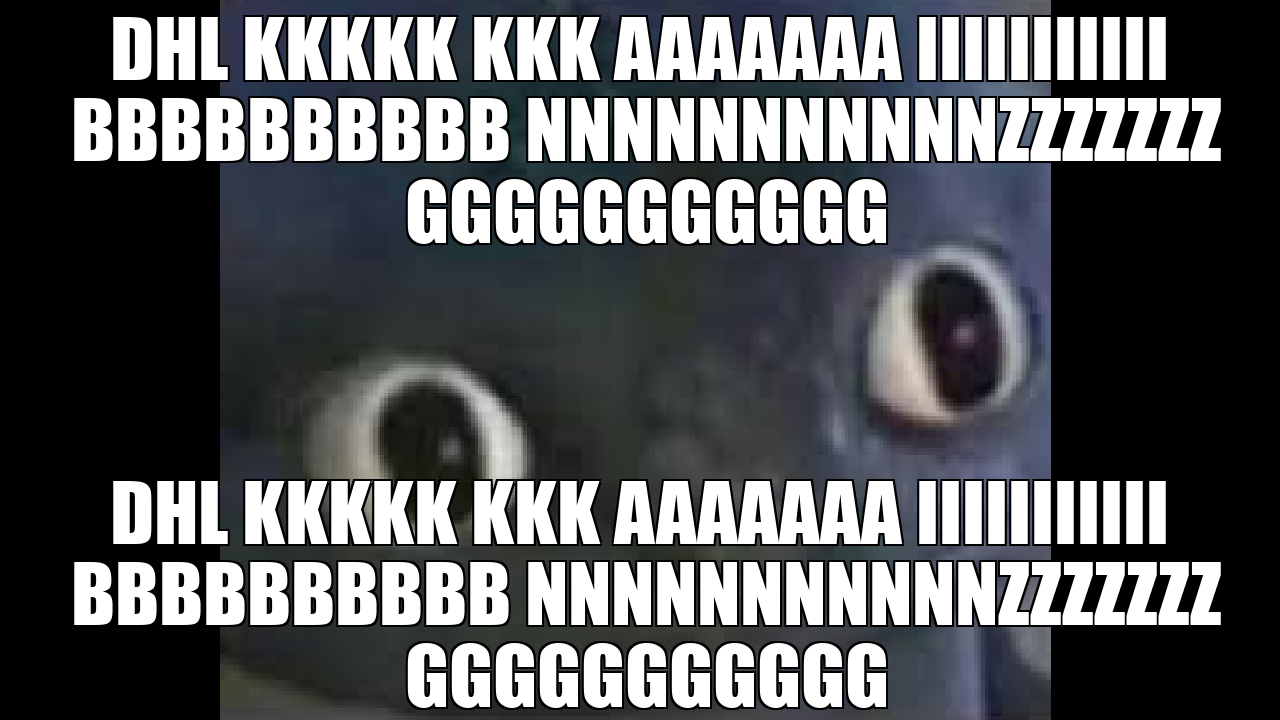
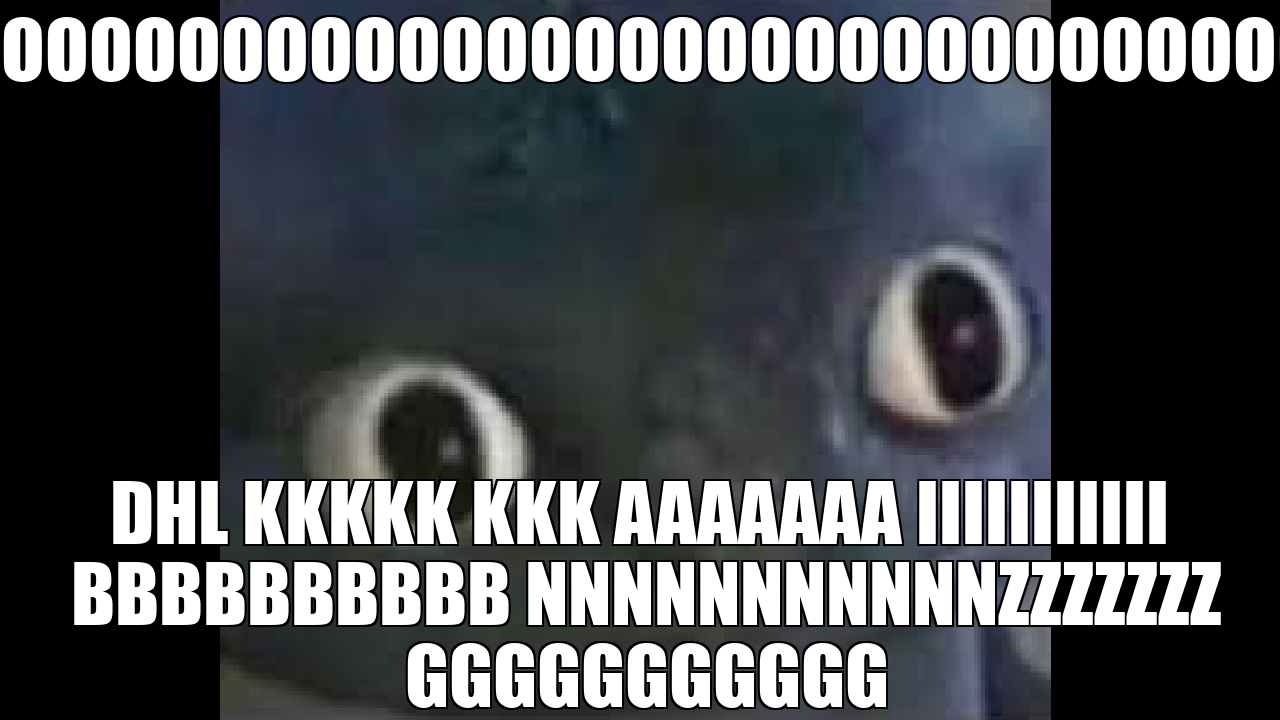
made meme_caption more error tolerant

Changed region(s): [[0.0, 0.0, 1.0, 0.3667]]

diff --git a/meme_caption.py b/meme_caption.py
@@ -19,7 +19,7 @@ def drawTextWithOutline(text, x, y, font, draw):
 
 def make_lines(text, font, img_w, draw):
     def _cut_last_word(line):
-        print('in _cut_last_word, about to cut line: ', line)#````````````````````````````````````````````````````````````
+#         print('in _cut_last_word, about to cut line: ', line)#````````````````````````````````````````````````````````````
         split_line_str_l = line.split(' ')
         
         if len(split_line_str_l) == 1:
@@ -35,22 +35,23 @@ def make_lines(text, font, img_w, draw):
     
     while(len(text) > 0):
         test_line = text
-        print('above while')#````````````````````````````````````````````````````````````````````````````````````````````
+#         print('above while')#````````````````````````````````````````````````````````````````````````````````````````````
         
         # while the length of the line is wider than the image
         while(draw.textsize(test_line, font)[0] > img_w):
-            print('test_line: ', test_line)#````````````````````````````````````````````````````
-            print('  draw.textsize(test_line, font)[0]: ', draw.textsize(test_line, font)[0])#`````````````````````````
+#             print('test_line: ', test_line)#````````````````````````````````````````````````````
+#             print('  draw.textsize(test_line, font)[0]: ', draw.textsize(test_line, font)[0])#`````````````````````````
             cut_line = _cut_last_word(test_line)
-            print('    cut_line: ', cut_line)#```````````````````````````````````````````````````````````````````
+#             print('    cut_line: ', cut_line)#```````````````````````````````````````````````````````````````````
             
+            # if there is 1 word that is wider than image
             if cut_line == False:
-                print('SINGLE WORD FIX THIS QQQQQ!!!!!!!!!!!!!!!!!!!!!!!!!!!!!!!!!!!!!!!!!!!!!!!!!!!!')
+                break
             else:
                 test_line = cut_line
                 
-            print('end of while test_line: ', test_line)#````````````````````````````````````````````````````
-            print(' ')
+#             print('end of while test_line: ', test_line)#````````````````````````````````````````````````````
+#             print(' ')
 
         lines.append(test_line)
         text = text[len(test_line):]
@@ -62,10 +63,10 @@ def drawText(text, pos, font, img, draw):
     text = text.upper()
     
     img_w, img_h = img.size
-    print('img_w: ', img_w)#```````````````````````````````````````````````````````````````````
+#     print('img_w: ', img_w)#```````````````````````````````````````````````````````````````````
     
     lines = make_lines(text, font, img_w, draw)
-    print('lines (final): ', lines)#`````````````````````````````````````````````````````````````````````
+#     print('lines (final): ', lines)#`````````````````````````````````````````````````````````````````````
     
     w, h = draw.textsize(text, font) # measure the size the text will take
 #     lines = [text]
@@ -155,5 +156,5 @@ def add_caption(in_img_path, out_img_path, top_text, bottom_text):
 
 
 if __name__ == '__main__':  
-    add_caption('pics/test_thumb.png', 'pics/t2.png', 'dhl kkkkk kkk aaaaaaa iiiiiiiiiii bbbbbbbbbb nnnnnnnnnnnzzzzzzz ggggggggggg', 'dhl kkkkk kkk aaaaaaa iiiiiiiiiii bbbbbbbbbb nnnnnnnnnnnzzzzzzz ggggggggggg')
+    add_caption('pics/test_thumb.png', 'pics/t2.png', 'dhllllllllllllllllllloooooooooooooooooooooooooooooooooooooooooooooooooooooooooooooooooooooooooooooooooooooooooooooooooooo', 'dhl kkkkk kkk aaaaaaa iiiiiiiiiii bbbbbbbbbb nnnnnnnnnnnzzzzzzz ggggggggggg')
 

diff --git a/gui/GUI_commands.py b/gui/GUI_commands.py
@@ -177,11 +177,10 @@ def apply_txt_overlay(top_text, bottom_text, master, tab_control, skip_evaluated
         pool_clips_data_handler.write_to_row_num(row_num, 'txt_overlay_clip_path', text_overlay_clip_path)
         pool_clips_data_handler.write_to_row_num(row_num, 'priority_next', '1')
         print('done with making text overlay, saved in: ', text_overlay_clip_path)
-        print('need to finish this thing !!!!!!!!!!!!!!!!!!!!!!!!!!!!!!!!!')
         
     text_overlay_thread = Thread(target=create_and_log_txt_overlay_clip)#, args=(img_path_list[3], 'option_3' , qo_dict)))  
     text_overlay_thread.start()
-#     next()
+    next(master, tab_control, skip_evaluated, skip_to_priority)
     
     
     

diff --git a/gui/Build_Tab.py b/gui/Build_Tab.py
@@ -88,6 +88,7 @@ class Build_Tab(Tab.Tab):
         self.bottom_txt_txt_box = Entry(self.txt_overlay_lbl_frm)#,width=TEXT_OVERLAY_TEXT_BOX_WIDTH)
         self.bottom_txt_txt_box.insert(END, self.clip_data.bottom_txt) #default
         
+        
         self.apply_txt_overlay_btn = Button(self.txt_overlay_lbl_frm, text="Apply Text Overlay", command = lambda: GUI_commands.apply_txt_overlay(self.top_txt_txt_box.get(), self.bottom_txt_txt_box.get(),self.master, self.tab_control, self.skip_evaluated_cbtn_sel.get(), self.skip_to_prority_cbtn_sel.get()))
 
         
